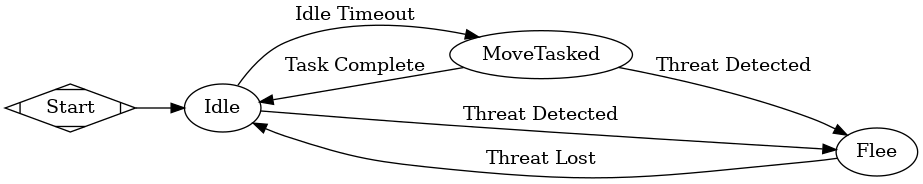
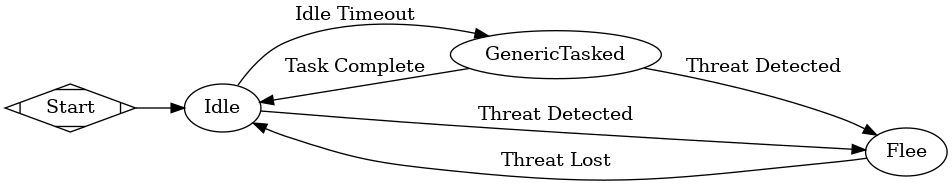
Retool tasks to allow for multistage construction
Previously, we had two initialization functions for each task: the
deliberately hidden _template_initialize() function, and the
independent initialize() functions. The independent initialize()
functions were defined seperately on each task, and each had to call
the _template_initialize() function.

This was good because, outwardly, there was only one function to worry
about - the initialize() function. But that wasn't really true, since
every function needed to call _template_initialize() in it's own
space. Plus, since all the variables needed to be provided to the
initialize() function when we called it - this meant the only place we
could create a task was exactly when we needed it embedded in the
machine.

That meant if we wanted to do something kooky - for example, creating
tasks and then feeding them into a machine from an external source -
was difficult, if not impossible. Trouble was, that kind of "task
injection" was ideal for the TaskingCowardMachine. It'd allow us to
only have one task state and just have X functions to order the
machine around.

So I changed our two functions into three functions - the generic
template_initialize() function, the task-oriented
specific_initialize() function, and the more general initialize()
function. All the task has to worry about is overriding the
specific_initialize() function. And, unless you're doing something
weird, you need to call the initialize() function.
[…]

Changed region(s): [[0.0, 0.0272, 1.0, 0.9783], [0.5157, 0.8152, 0.6674, 0.8967], [0.3034, 0.7337, 0.3337, 0.788]]

diff --git a/FicGuac/motion_ai/common/tasking/README.md b/FicGuac/motion_ai/common/tasking/README.md
@@ -15,7 +15,7 @@ A couple of quick notes about the current design philosophy of tasks:
 2. *Tasks should generally accept plural inputs.*
 	- For example, say we need to pick up an item. It may be tempting to have two tasks, where one targets just one item and the other only targets multiple items. This is a waste of effort - the multiple item task (which takes *plural input*) will naturally be more robust and can easily be overloaded to only work with a single item.
 3. *Tasks should not repeat infinitely. They must succeed or they must fail.*
-	- It is the responsibility of the *Goal Region* to assess whether repeating a task or doing a different task is appropriate. The task should not 
+	- It is the responsibility of the *Goal Region* to assess whether repeating a task or doing a different task is appropriate. The task should not repeat infinitely.
 	- The only issue with this design element is that, since XSM states operate in Godot's `_physics_process` loop, frequently repeating a task by recreating it and restarting it can sometimes result in milliseconds of downtime for an AI. That's not a problem when picking up an item, but it's definitely a problem when an AI is attempting to flee a pursuing danger. Because of that, some tasks have the potential to repeat forever (though it probably wouldn't happen).
 4. *Tasks should be robust enough to deal with changing game state.*
 	- What I'm really trying to say is to not fail a task immediately if there's potential to recover. For example, an AI may not be able to act on a particular entity but could try other entities in it's list.
@@ -33,11 +33,16 @@ This task flees all *Threat* bodies in a machine's *Fight-or-Flight* area. If ne
 
 If the integrating body escapes the *Threat* bodies, it succeeds. If the integrating body gets stuck, it fails.
 
-### Functions
-##### `initialize`
-Initializes the task so that it can actually run. In addition to the standard task initialization arguments - the parent machine root, the physics travel region, and the target body - this task accepts an additional argument:
+### Constants
+##### `AK_FLEE_DISTANCE`
+Constant argument-key for the flee distance. See `specific_initialize` for more.
 
-- `flee_distance`: The flee distance, in game units. Every time the task flees it moves this distance before reassessing the best path (or it at least ATTEMPTS to). If this value is too small this may result in the integrating body rapidly stuttering and losing ground to whatever it is fleeing.
+### Functions
+##### `specific_initialize`
+Initializes the task's specific/unique variables.
+
+- `arg_dict`: The dictionary of arguments specific to this task. Should contain the following key/values:
+ - `AK_FLEE_DISTANCE`: The flee distance, in game units. Every time the task flees it 	moves this distance before reassessing the best path (or it at least ATTEMPTS to). 			If this value is too small this may result in the integrating body rapidly 					stuttering and losing ground to whatever it is fleeing.
 
 ### Signals
 This task has the standard `task_succeeded` and `task_failed` signals, as defined by the *Task Template*.
@@ -47,14 +52,21 @@ This task moves a provided set of items to a provided point. It expects the give
 
 The task will prioritize closest items first, and will stack as many items as possible. It will make as many trips as necessary.
 
-If it successfully grabs and moves all items, the task will succeed. Otherwise, it will fail, regardless of how items it managed to move
+If it successfully grabs and moves all items, the task will succeed. Otherwise, it will fail, regardless of how many items it managed to move.
+
+### Constants
+##### `AK_ITEMS_LIST`
+Constant argument-key for the list/Array of items we're trying to pick up. See `specific_initialize` for more.
+##### `AK_DROP_POSITION`
+Constant argument-key for where we'll drop the items. See `specific_initialize` for more.
 
 ### Functions
 ##### `initialize`
-Initializes the task so that it can actually run. In addition to the standard task initialization arguments - the parent machine root, the physics travel region, and the target body - this task accepts two additional arguments:
+Initializes the task's specific/unique variables.
 
-- `items`: A Godot `Array` of item nodes. Any nodes that do not match the game's defined item type will be ignored.
-- `position`: A Godot `Vector3`. This is the position in global space that we'll move the items to.
+- `arg_dict`: The dictionary of arguments specific to this task. Should contain the following key/values:
+ - `AK_ITEMS_LIST`: A Godot `Array` of item nodes. Any nodes that do not match the game's defined item type will be ignored.
+ - `AK_DROP_POSITION`: A Godot `Vector3`. This is the position in global space that we'll move the items to.
 
 ### Signals
 This task has the standard `task_succeeded` and `task_failed` signals, as defined by the *Task Template*.
@@ -64,11 +76,16 @@ This task moves in a random direction. One time. Just once, not repeating or any
 
 If the integrating body moves correctly, it succeeds. If the integrating body gets stuck, it fails.
 
+### Constants
+##### `AK_WANDER_DISTANCE`
+Constant argument-key for the distance we'll wander in one direction. See `specific_initialize` for more.
+
 ### Functions
 ##### `initialize`
-Initializes the task so that it can actually run. In addition to the standard task initialization arguments - the parent machine root, the physics travel region, and the target body - this task accepts an additional argument:
+Initializes the task's specific/unique variables.
 
-- `wander_distance`: The wander distance, in game units. The task will attempt to move this far as part of the wander action.
+- `arg_dict`: The dictionary of arguments specific to this task. Should contain the following key/values:
+ - `AK_WANDER_DISTANCE`: The wander distance, in game units. The task will attempt to move this far as part of the wander action.
 
 ### Signals
 This task has the standard `task_succeeded` and `task_failed` signals, as defined by the *Task Template*.

diff --git a/FicGuac/motion_ai/common/tasking_coward_machine/README.md b/FicGuac/motion_ai/common/tasking_coward_machine/README.md
@@ -7,7 +7,7 @@ At the middle level, we have the *Task Manager*. The task manager handles the di
 
 At the lowest level, we have the *Physics Travel Region*. This region handles movement and collision, allowing the higher levels to simply deal with whether or not the task was successful (instead of intense semantics such as resolving collisions against collisions or testing for being stuck).
 
-This machine operates in three modes - in *Idle* mode, the machine occasionally wanders in a random direction. In *Flee* mode, the machine moves *away* from whatever the perceived *Threats* are. When so ordered (via the `move_items` function), the machine will move into the *Move Tasked* state, moving the appropriate items. Note that the machine will enter *Flee* mode from either *Idle* or the *Move Tasked* state. See *State Control Flow* below.
+This machine operates in three modes - in *Idle* mode, the machine occasionally wanders in a random direction. In *Flee* mode, the machine moves *away* from whatever the perceived *Threats* are. When so ordered (via a function), the machine will move into the *Generic Tasked* state, performing a specific task. In that way, this machine acts as our testbed for tasks in general. Note that the machine will enter *Flee* mode from either *Idle* or the *Move Tasked* state. See *State Control Flow* below.
 
 ### Configurables
 In order to handle tasks, it was necessary to implement the tripartite architecture using three separate XSM structures. This means the machine doesn't have the typical XSM configurables. These configurables hew as close as possible to the standard configurables of other machines.
@@ -23,6 +23,12 @@ We require a `SensorySortCore` in order to detect the world around us and react 
 
 ##### Level Interface Core
 We require a `LevelInterfaceCore` in order to interact with the level at large. This includes checking positions and pathing to given destinations.
+
+##### Item Management Core
+We require a `ItemManagementCore` in order to interact items - specifically picking up and dropping items.
+
+##### Character Stats Core
+We require a `CharacterStatsCore` in order to keep track of the machine's current status - including health and current speed.
 
 ##### Idle Wait Time
 When in the *Idle* state, the machine waits for a certain amount of seconds before transitioning to the *Wander* state. This configurable controls the duration of that time period.
@@ -55,8 +61,8 @@ This function orders the machine to grab a set of items and drop them at a speci
 
 ### Signals
 
-##### `move_task_assigned`
-This is a signal unique to the *Tasking Coward Machine*, since it was designed to accept input directly via code. The signal indicates the machine was ordered to move an item to a specified location. Should only really be used by one of the region sub-machines.
+##### `task_assigned`
+This is a signal unique to the *Tasking Coward Machine*, since it was designed to accept input directly via code. The signal indicates the machine was given a specific task to perform. Should only really be used by one of the region sub-machines.
 
 ##### `task_complete_echo`
 This signal fires when a task fails or succeeds. This is also unique to the *Tasking Coward Machine*, since a fully fledged machine should handle task completion internally.  
@@ -76,7 +82,7 @@ The second machine is whatever task the machine is currently performing. This is
 The final region is the *GoalRegion*, which assigns different tasks. It is, in effect, the actual "thinking" ethos component. It has the following nodes:
 
 1. *Idle*
-1. *Move Tasked*
+1. *Generic Tasked*
 1. *Flee*
 
 The Tree Structure can be observed below. Note that these are separate because they are no longer part of a contiguous XSM:
@@ -88,11 +94,11 @@ The Tree Structure can be observed below. Note that these are separate because t
 As we have two regions, we have effectively have two sub-machines:
 
 ##### Goal Region
-Our default state is the *Idle* state. If, at any point, we detect a *Threat* body intruding in our *Fight or Flight* sensory area, we transition to the *Flee* state. We return from the *Flee* state to the *Idle* state.
+Our default state is the *Idle* state. If, at any point, we detect a *Threat* body intruding in our *Fight or Flight* sensory area, we transition to the *Flee* state. We return from the *Flee* state to the *Idle* state once we are safe.
 
-In the *Idle* state, we wait for the amount of time specified by the *Idle Wait Time* configurable before issuing ourselves a *Wander* task. Once that task completes, we again wait for the configured time before assigning another *Wander* task - so on and so forth.
+In the *Idle* state, we wait for the amount of time specified by the *Idle Wait Time* configurable before issuing ourselves a *Wander* task. Once that task completes, we again wait for the configured time before assigning another *Wander* task - so on and so forth. If a task gets ordered, we move to the *Generic Tasked* state.
 
-In the *Wander* state, we move in a random direction. Once we've completed that particular path, we move back to the *Idle* state.
+In the *Generic Tasked* state, we perform the assigned task. If we complete the task - success or failure - we move back to the *Idle* state. If we encounter a threat, we drop the task and move to the *Flee* state.
 
 The *Goal Region* process can be observed in this image:
 

diff --git a/FicGuac/motion_ai/common/tasking/core/README.md b/FicGuac/motion_ai/common/tasking/core/README.md
@@ -26,12 +26,31 @@ A Godot `NodePath`. This will be the path to the integrating body node. This var
 This is the node retrieved from the `fsm_owner` path. We actually set this in the `_template_initialize` function as well, but it is usually overwritten when the task enters the scene. This variable is inherited from *XSM*'s `StateRoot` class.
 
 ### Functions
-##### `_template_initialize`
-Initializes the task so that it can actually run. This function should be called in every implementing task so that they are all consistent. It initializes things so that the actions can execute without issue. The arguments are as follows:
+There are three initialization functions. I know this is confusing and bad design, but we need these functions since different components of the tasks may need to be initialized in a different order at different times. 
+
+A complete initialization happens in two steps, or rather, two function calls. Both the `template_initialize` function and `specific_initialize` need to be called, but can be called in any order. The third function, `initialize`, just wraps both of those functions for one easy call.
+
+The ability to call `specific_initialize` separate from the coupling-centric  `template_initialize` function allows us to prep tasks separate from the host machine. We can create tasks and then pass them in to the host machine - a process we call *task injection*.
+
+##### `template_initialize`
+This function initializes the template's variables. The variables passed here are essentially coupling variables - variables that allow us to interface with/connect to the host machine. Ergo, this function should be called by the host machine!
 
 - `machine_root`: The root of the machine this task is going to be inserted to. In this instance, "machine" is used in the sense of the game's AI constructs, not specifically an XSM machine. This is needed by tasks to access the various configuration items.
 - `physics_travel_region`: The *Physics Travel Region* of the machine this task is going to be inserted in to. This is required in order to move the pawn and detect movement success or errors.
 - `target_body`: The target body - must be a 3D `KinematicBody` node. This should be the body integrating the task's parent-machine.
+
+##### `specific_initialize`
+This function initializes those variables that are specific to the current task. It frequently requires input from the world - like a list of specific items, or a specific target. This can be called from within the host machine, but we may want to call it from outside the machine and then inject/pass the task into the machine.
+
+- `arg_dict`: The dictionary of arguments specific to the current task. This should be overloaded for each new task. Each task will should have `const` argument keys used to index and create this dictionary.
+
+##### `initialize`
+This is a convenience function that wraps both the `template_initialize` function and the `specific_initialize` function.
+
+- `machine_root`: The root of the machine this task is going to be inserted to. In this instance, "machine" is used in the sense of the game's AI constructs, not specifically an XSM machine. This is needed by tasks to access the various configuration items.
+- `physics_travel_region`: The *Physics Travel Region* of the machine this task is going to be inserted in to. This is required in order to move the pawn and detect movement success or errors.
+- `target_body`: The target body - must be a 3D `KinematicBody` node. This should be the body integrating the task's parent-machine.
+- `arg_dict`: The dictionary of arguments specific to the current task. This should be overloaded for each new task. Each task will should have `const` argument keys used to index and create this dictionary.
 
 ### Signals
 ##### `task_succeeded`
